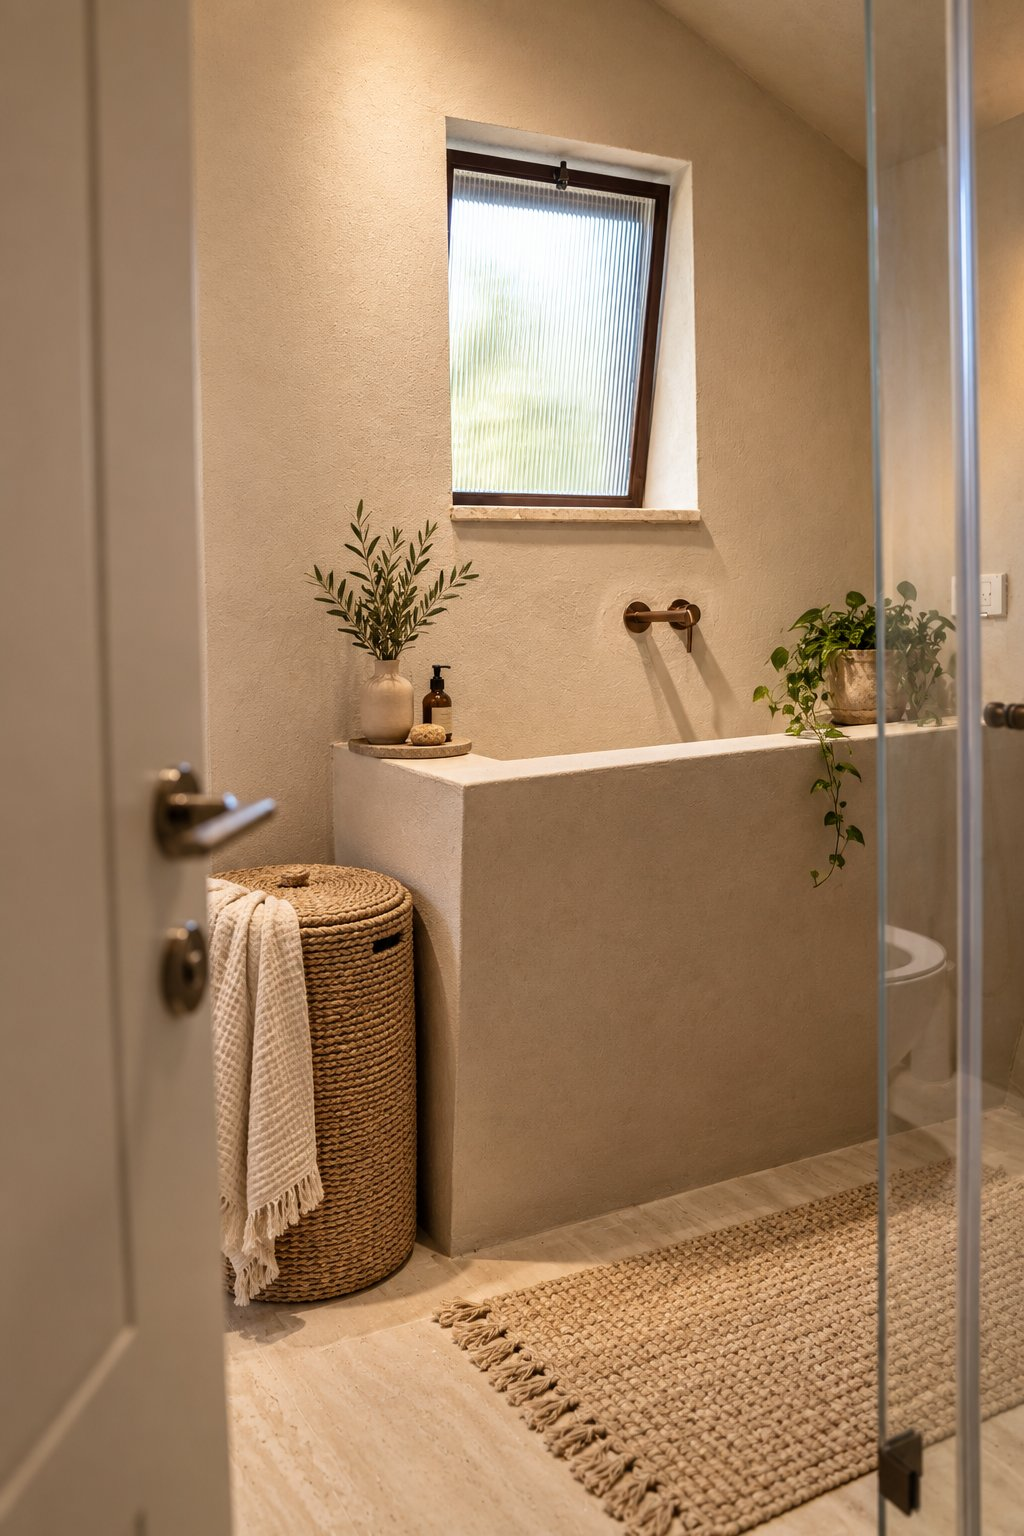
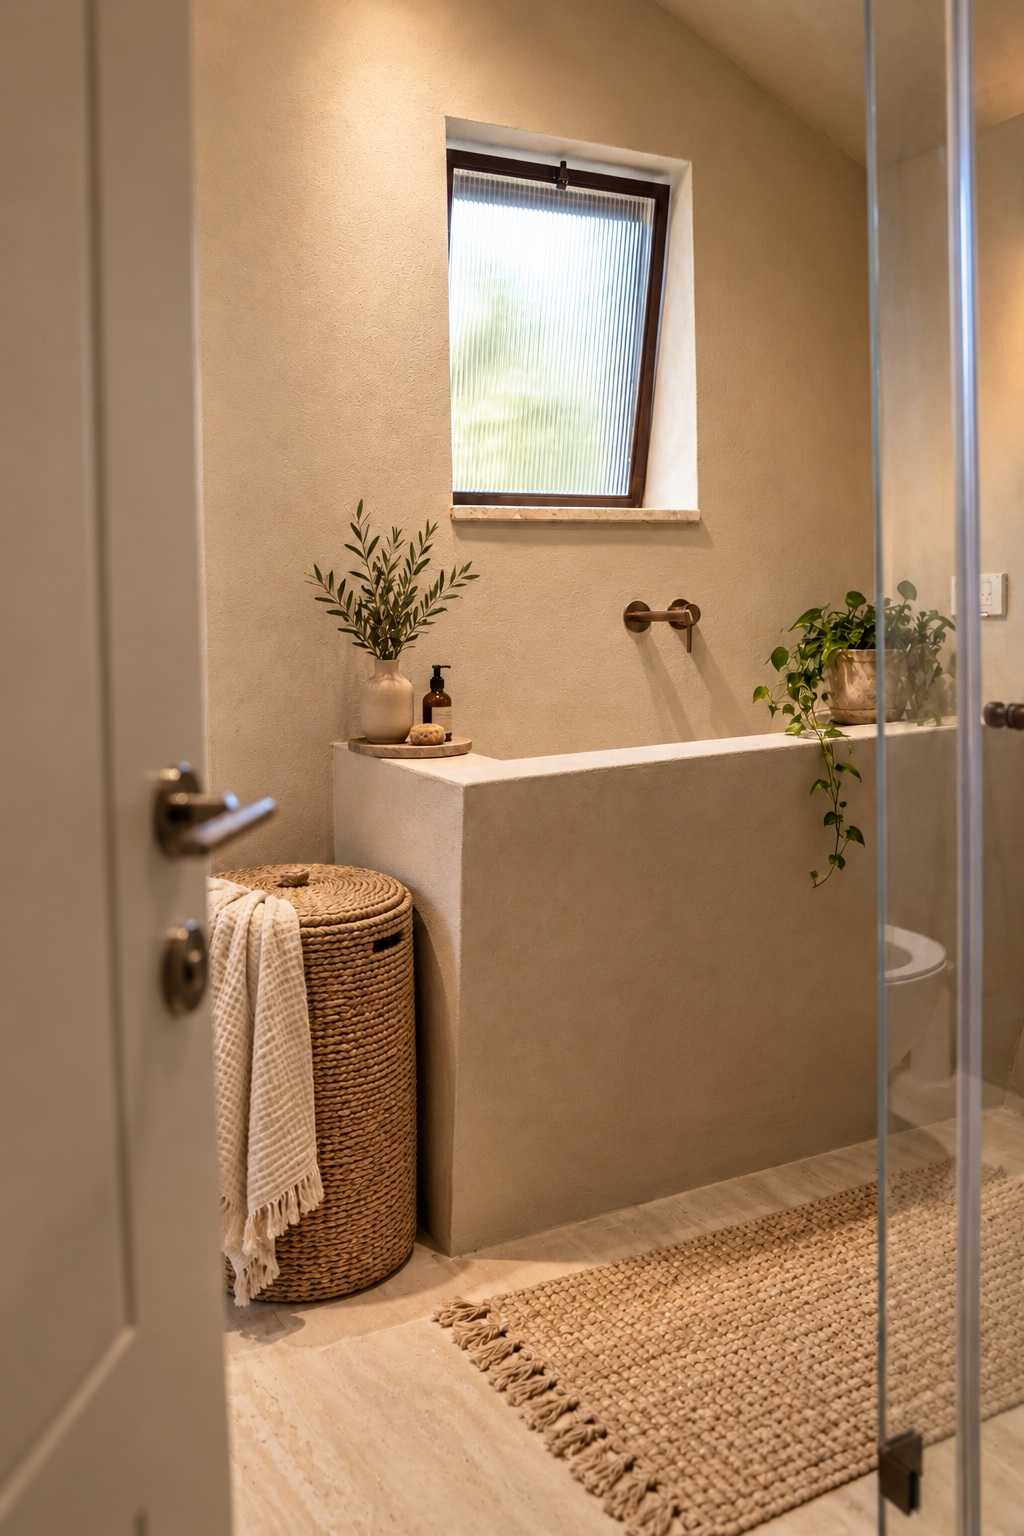
Unify the family story with the old and new chapter and retouch the sink photo.

diff --git a/src/components/StorySection.tsx b/src/components/StorySection.tsx
@@ -2,6 +2,7 @@ import { Clock, Landmark } from 'lucide-react';
 import { IMAGES } from '../data/shorashimData';
 import { RootLine, EditorialTag } from './RootLine';
 import Picture from './Picture';
+import ConceptSection from './ConceptSection';
 
 export default function StorySection() {
   return (
@@ -14,11 +15,11 @@ export default function StorySection() {
 
       <div className="max-w-7xl mx-auto px-7 sm:px-10 lg:px-12 relative z-10">
         
-        {/* Section Header — Discovered deeper down the page */}
-        <div className="w-full max-w-none md:max-w-3xl mb-6 sm:mb-8 text-right">
-          <EditorialTag className="mb-3 sm:mb-4 block">
+        <EditorialTag className="mb-5 block">
             הסיפור של שורשים
-          </EditorialTag>
+        </EditorialTag>
+        <div className="grid grid-cols-1 md:grid-cols-[1.3fr_1fr] gap-6 md:gap-12 items-center">
+        <div className="w-full min-w-0 text-right">
           
           <h2 className="font-serif text-3xl sm:text-5xl md:text-6xl text-[#1E1D1A] font-normal tracking-tight mb-4 sm:mb-6 text-right">
             יש מקומות שמתחילים מתוכנית.
@@ -30,10 +31,12 @@ export default function StorySection() {
             הסיפור שלנו מתחיל הרבה לפני הבית. בשנת <bdi>1882</bdi> הגיעו המשפחות שמהן צמחה משפחת פויזנר
             לזמארין, שלימים נקראה זכרון יעקב.
           </p>
+          <p className="mt-4 leading-relaxed">אנחנו שרי ויואב פויזנר. שורשים נולד מתוך רצון לחזור לבית המשפחתי בזכרון ולפתוח את הדלת גם לאורחים שמחפשים שקט.</p>
         </div>
 
-        <figure className="story-photo mb-6"><Picture image={IMAGES.family_book} alt="ספר זכרון יעקב וטלפון חוגה ישן על שולחן עץ" className="w-full h-auto" sizes="(max-width: 639px) 100vw, 520px" /><figcaption className="mt-2 text-sm text-[#7B6045]">הסיפור המשפחתי נשאר בבית</figcaption></figure>
-        <p className="mb-4">אנחנו שרי ויואב פויזנר. שורשים נולד מתוך רצון לחזור לבית המשפחתי בזכרון ולפתוח את הדלת גם לאורחים שמחפשים שקט.</p><details><summary>לסיפור המשפחתי המלא</summary>
+        <figure><Picture image={IMAGES.family_book} alt="ספר זכרון יעקב וטלפון חוגה ישן על שולחן עץ" className="w-full h-auto" sizes="(max-width: 767px) 100vw, 40vw" /><figcaption className="mt-2 text-sm text-[#665548]">הסיפור המשפחתי נשאר בבית</figcaption></figure>
+        </div>
+        <details className="mt-4"><summary className="text-[#665548] underline underline-offset-4">לסיפור המשפחתי המלא</summary>
         {/* The Authentic Story & Archival Discovery */}
         <div className="grid grid-cols-1 lg:grid-cols-12 gap-8 sm:gap-12 lg:gap-20 items-start mb-12 sm:mb-24">
           
@@ -133,6 +136,7 @@ export default function StorySection() {
           </div>
 
         </div></details>
+        <ConceptSection />
 
       </div>
     </section>

diff --git a/src/components/ConceptSection.tsx b/src/components/ConceptSection.tsx
@@ -1,10 +1,8 @@
 import Picture from './Picture';
 import { IMAGES } from '../data/shorashimData';
 export default function ConceptSection() {
-  return <section id="concept" tabIndex={-1} className="py-12 sm:py-20 bg-[#F4F0E8]">
-    <div className="max-w-7xl mx-auto px-6 sm:px-10 grid md:grid-cols-2 gap-8 sm:gap-12 items-center">
-      <div><p className="section-eyebrow">החומר זוכר. הבית ממשיך לחיות.</p><h2 className="font-serif text-3xl sm:text-5xl mb-5">ישן. חדש.<br />וכל מה שביניהם.</h2><p className="max-w-lg leading-relaxed">קירות האבן, התריסים ותמונות המשפחה נשארו חלק מהבית. לצדם — מטבח מלא, חדר שינה נעים וחללי ישיבה מוארים. מקום שהעבר שלו מורגש, והנוחות שלו שייכת להיום.</p></div>
-      <div className="photo-pair detail-photos"><figure><Picture image={IMAGES.trough_sink} alt="כיור אבן בצורת שוקת מתחת לחלון" className="w-full h-auto object-contain" /><figcaption className="mt-2 text-sm">משוקת של פעם לכיור של היום</figcaption></figure><figure><Picture image={IMAGES.old_new_shutters} alt="תריסים ירוקים ישנים לצד חלונות זכוכית חדשים בחזית שורשים" className="w-full h-auto object-contain" /><figcaption className="mt-2 text-sm">התריסים של פעם, הנוחות של היום</figcaption></figure></div>
-    </div>
+  return <section id="concept" tabIndex={-1} aria-labelledby="concept-heading" className="mt-8 sm:mt-11 border-t border-[#DED5C8] pt-7 sm:pt-9">
+      <div className="max-w-3xl"><p className="mb-3 text-sm text-[#665548] tracking-wide">ישן. חדש. וכל מה שביניהם.</p><h3 id="concept-heading" className="font-serif text-3xl sm:text-5xl font-normal mb-5">החומר זוכר. הבית ממשיך לחיות.</h3><p className="leading-relaxed">קירות האבן, התריסים ותמונות המשפחה נשארו חלק מהבית. לצדם — מטבח מלא, חדר שינה נעים וחללי ישיבה מוארים. מקום שהעבר שלו מורגש, והנוחות שלו שייכת להיום.</p></div>
+      <div className="grid grid-cols-1 sm:grid-cols-[0.667fr_1.499fr] gap-7 mt-7 items-start"><figure className="w-[82%] mx-auto sm:w-full"><Picture image={IMAGES.trough_sink} alt="כיור אבן בצורת שוקת מתחת לחלון" sizes="(max-width: 639px) 82vw, 30vw" className="w-full h-auto object-contain" /><figcaption className="mt-2 text-sm text-[#665548]">משוקת של פעם לכיור של היום</figcaption></figure><figure><Picture image={IMAGES.old_new_shutters} alt="תריסים ירוקים ישנים לצד חלונות זכוכית חדשים בחזית שורשים" sizes="(max-width: 639px) 100vw, 65vw" className="w-full h-auto object-contain" /><figcaption className="mt-2 text-sm text-[#665548]">התריסים של פעם, הנוחות של היום</figcaption></figure></div>
   </section>;
 }

diff --git a/src/App.tsx b/src/App.tsx
@@ -1,7 +1,6 @@
 import { useState } from 'react';
 import Header from './components/Header';
 import Hero from './components/Hero';
-import ConceptSection from './components/ConceptSection';
 import HouseSection from './components/HouseSection';
 import StorySection from './components/StorySection';
 import BrideSection from './components/BrideSection';
@@ -55,7 +54,6 @@ export default function App() {
         <HouseSection onOpenBooking={scrollToBooking} />
         <BrideSection onSelectPackage={handleSelectPackage} />
         <BookingSection stayType={selectedStayType} onStayTypeChange={setSelectedStayType} />
-        <ConceptSection />
         <StorySection />
         <ZichronGuide />
         <GallerySection />
